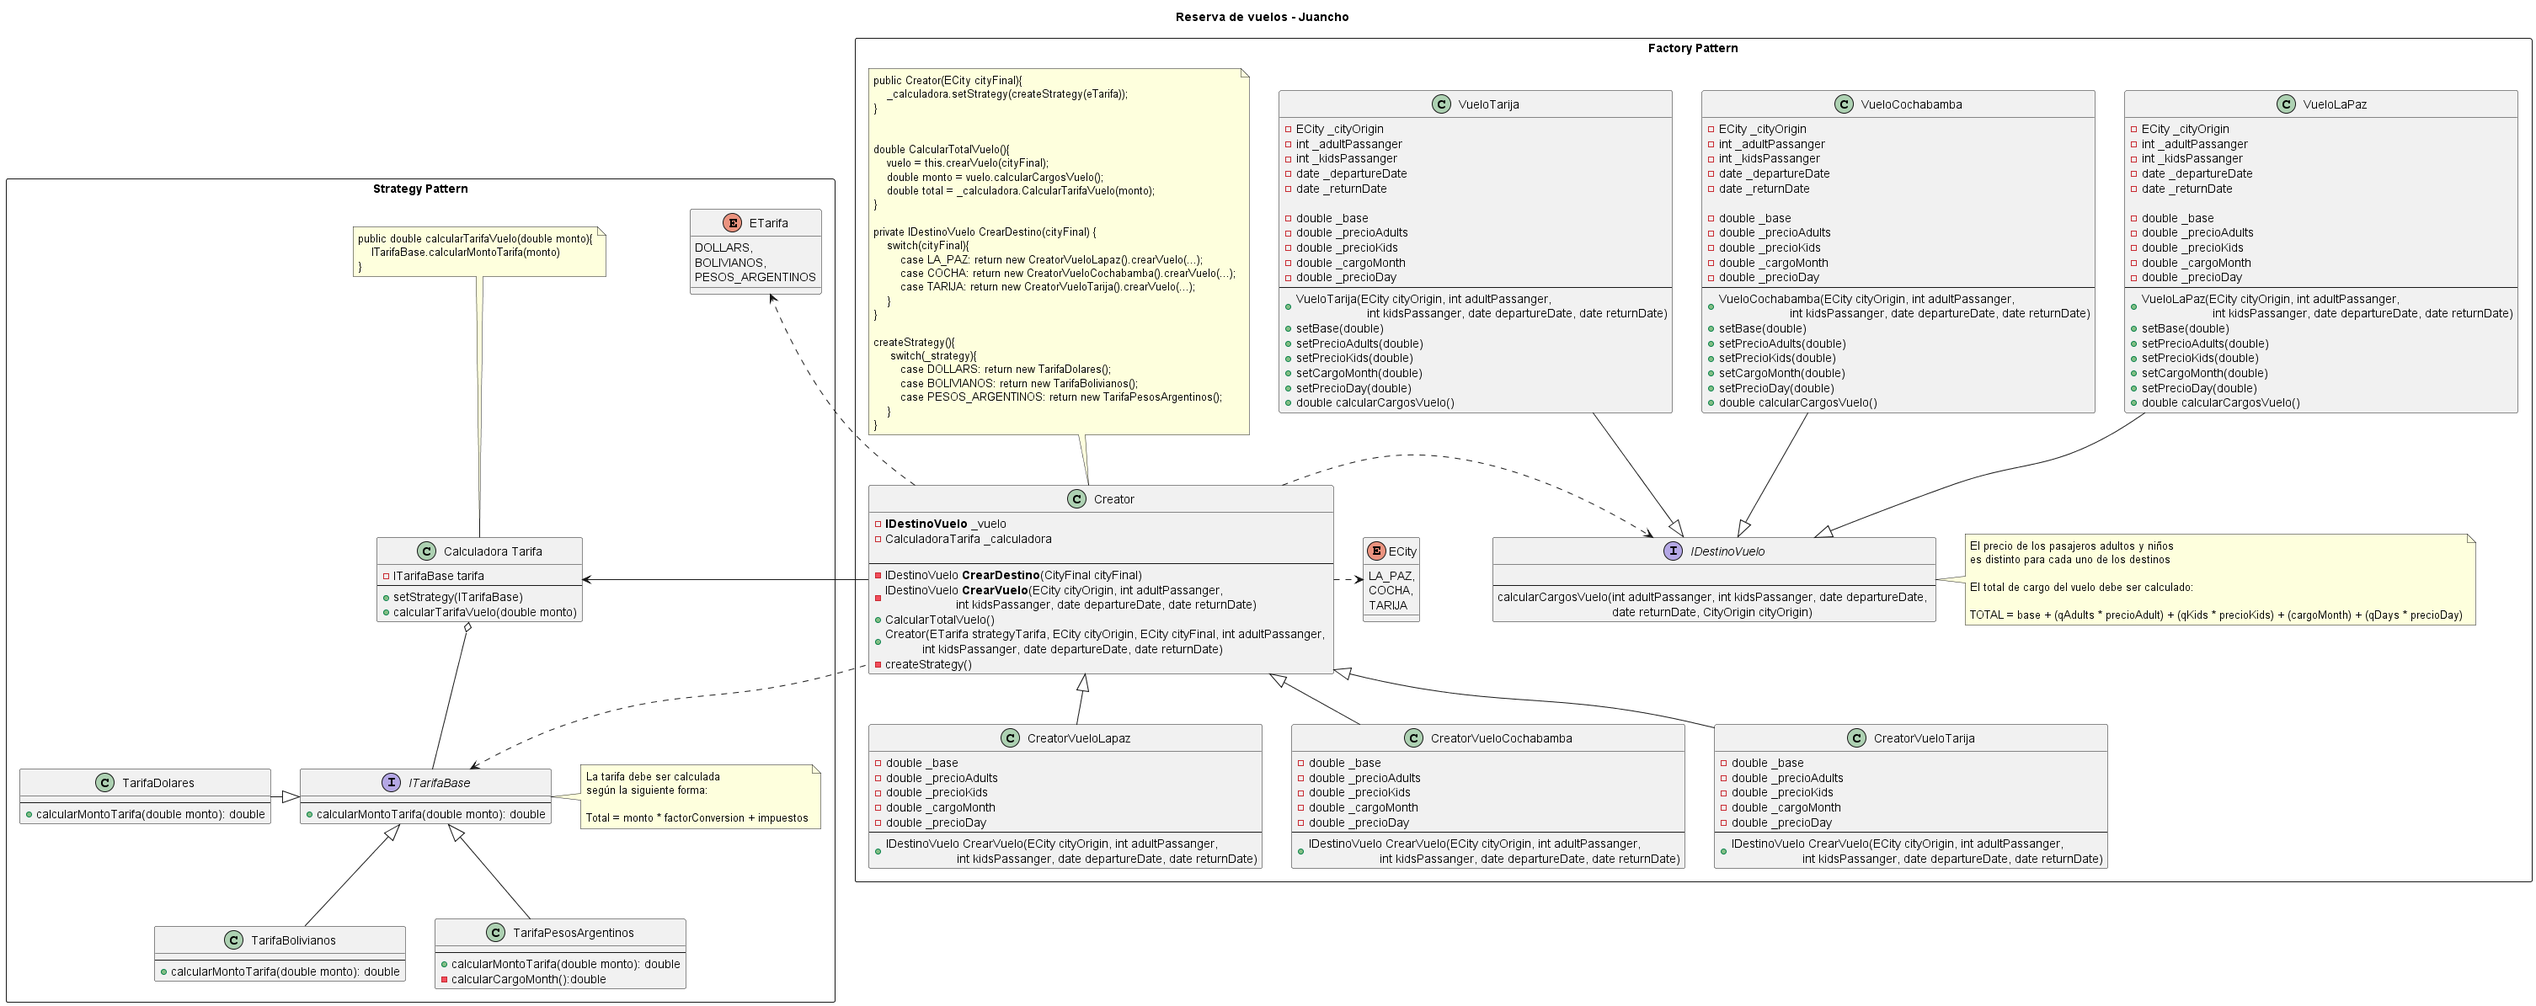
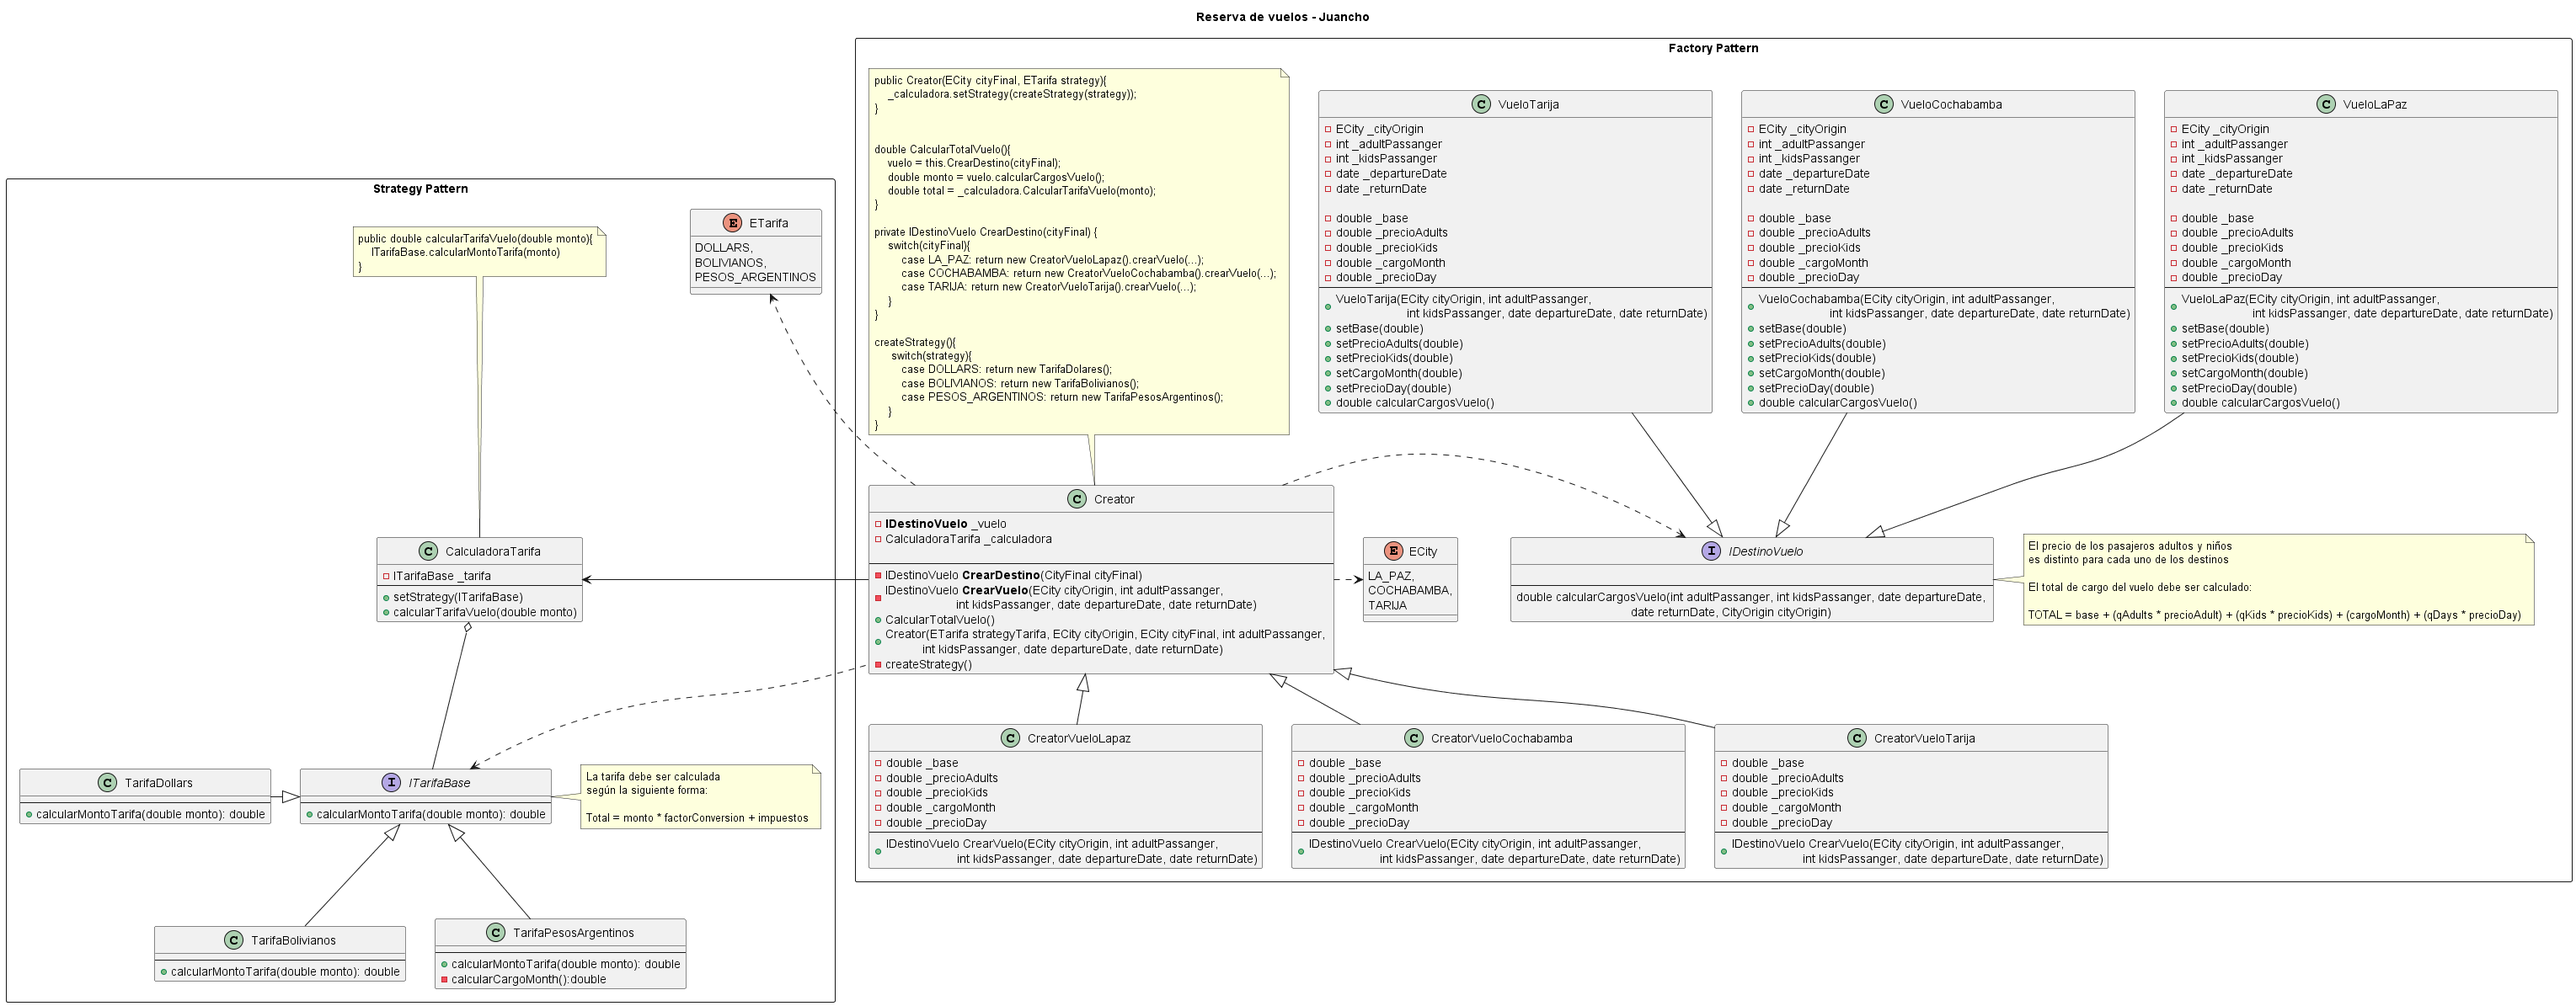
refactor creator class

diff --git a/src/ASReservaVuelos/pFactoryMethod/Creator.java b/src/ASReservaVuelos/pFactoryMethod/Creator.java
@@ -5,10 +5,10 @@ import ASReservaVuelos.pStrategy.*;
 import java.util.Date;
 
 public abstract class Creator {
-    private IDestinoVuelo _vuelo;
     private CalculadoraTarifa _calculadora;
 
     private ECity _cityOrigin;
+    private ECity _cityFinal;
     private int _adultPassanger;
     private int _kidsPassanger;
     private Date _departureDate;
@@ -27,8 +27,8 @@ public abstract class Creator {
         };
     }
 
-    public double CalcularTotalVuelo(ECity cityFinal){
-        IDestinoVuelo vuelo = this.CrearDestino(cityFinal);
+    public double CalcularTotalVuelo(){
+        IDestinoVuelo vuelo = this.CrearDestino(_cityFinal);
         double monto = vuelo.calcularCargosVuelo();
         double total = _calculadora.calcularTarifaVuelo(monto);
 
@@ -40,12 +40,11 @@ public abstract class Creator {
         _calculadora.setStrategy(createStrategy(strategyTarifa));
 
         _cityOrigin = cityOrigin;
+        _cityFinal = cityFinal;
         _adultPassanger = adultPassanger;
         _kidsPassanger = kidsPassanger;
         _departureDate = departureDate;
         _returnDate =returnDate;
-
-        _vuelo = CrearDestino(cityFinal);
     }
     private ITarifaBase createStrategy(ETarifa  strategy){
         return switch (strategy) {
